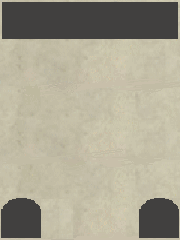
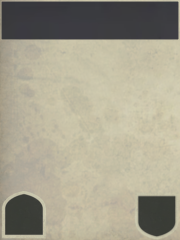
修复数字滚动动画：用SceneTreeTimer替代Task.Delay保证主线程执行
之前使用Task.Delay在fire-and-forget任务中，回调可能不在Godot主线程执行，
导致Label.Text更新无声失败。改为Godot原生的SceneTreeTimer+ToSignal，
确保所有UI更新在主线程安全执行。

diff --git a/bin/cardBase_.cs b/bin/cardBase_.cs
@@ -497,15 +497,14 @@ public partial class cardBase_ : Control
 
         int steps = Math.Abs(toValue - fromValue);
         int direction = toValue > fromValue ? 1 : -1;
-        // 总时长控制在1000ms内，每步80-150ms确保清晰可见
-        int delayMs = Math.Clamp(1000 / Math.Max(steps, 1), 80, 150);
+        // 每步间隔80-150ms，变化越多越快但确保每步可见
+        float delaySec = Math.Clamp(1.0f / Math.Max(steps, 1), 0.08f, 0.15f);
 
         int current = fromValue;
-        // 先立即显示起始值
         costLabel.Text = current.ToString();
         while (current != toValue)
         {
-            await Task.Delay(delayMs);
+            await ToSignal(GetTree().CreateTimer(delaySec), SceneTreeTimer.SignalName.Timeout);
             current += direction;
             if (IsInstanceValid(this) && IsInstanceValid(costLabel))
                 costLabel.Text = current.ToString();

diff --git a/bin/battlefield_.cs b/bin/battlefield_.cs
@@ -1913,15 +1913,14 @@ InputState currentInputState = InputState.nil;
 
         int steps = Math.Abs(toValue - fromValue);
         int direction = toValue > fromValue ? 1 : -1;
-        // 总时长控制在1000ms内，每步80-150ms确保清晰可见
-        int delayMs = Math.Clamp(1000 / Math.Max(steps, 1), 80, 150);
+        // 每步间隔80-150ms，变化越多越快但确保每步可见
+        float delaySec = Math.Clamp(1.0f / Math.Max(steps, 1), 0.08f, 0.15f);
 
         int current = fromValue;
-        // 先立即显示起始值
         label.Text = current.ToString();
         while (current != toValue)
         {
-            await Task.Delay(delayMs);
+            await ToSignal(GetTree().CreateTimer(delaySec), SceneTreeTimer.SignalName.Timeout);
             current += direction;
             if (IsInstanceValid(label))
                 label.Text = current.ToString();
